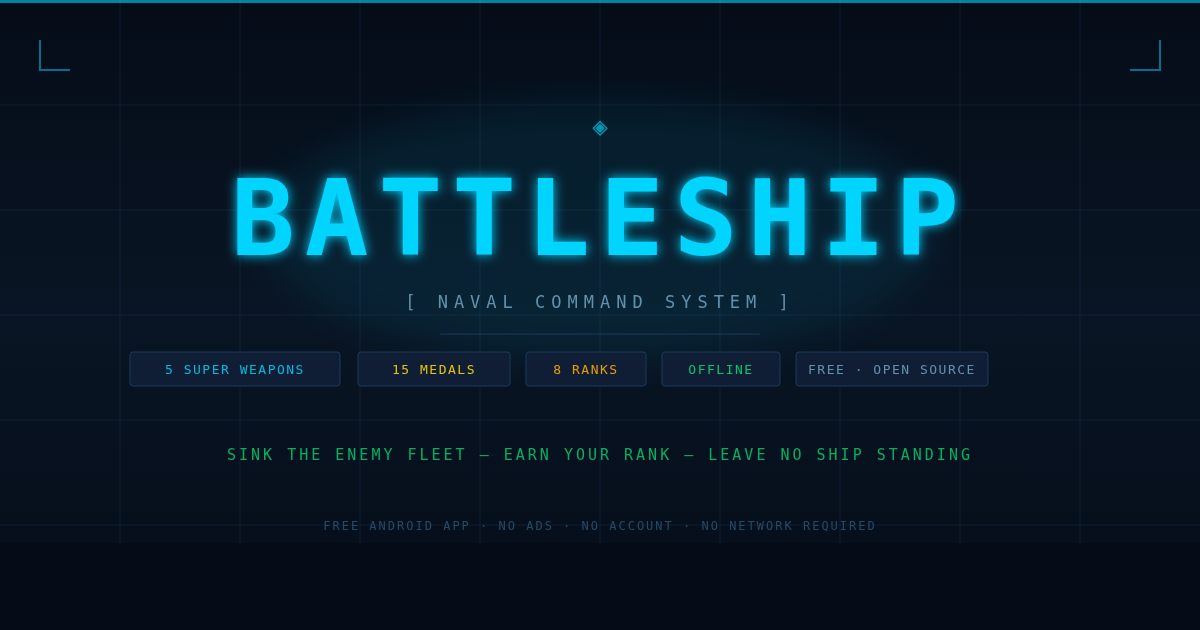
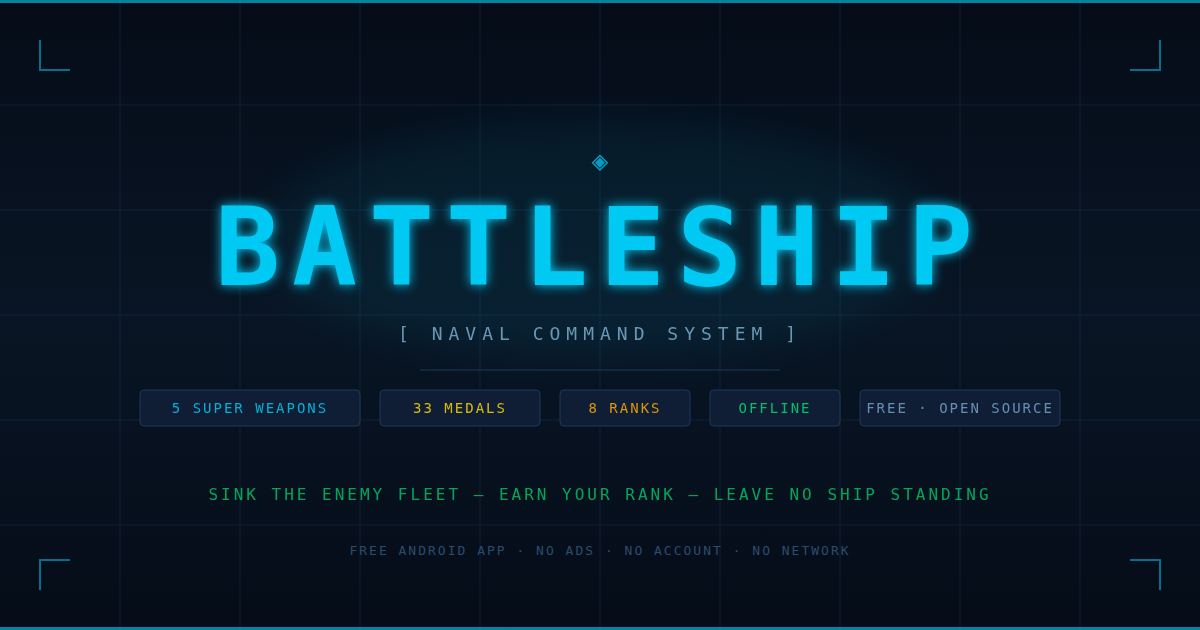
chore: release 1.0.13 so F-Droid shows the finished description (#59)
* chore: release 1.0.13 so F-Droid shows the finished description

F-Droid reads the store text from the tagged commit, so the corrections in #58
only reach the listing once a release carries them.

Claude-Session: https://claude.ai/code/session_01WmQqqeymFbDafWkmJCSYuR

* docs: correct the website claims an audit found unsupported by the source

A full audit of every user-facing claim against app/src turned up defects the
tester's sample had not reached. The store metadata and both privacy documents
came back clean; everything here is the website and README.

- og.png still read "15 MEDALS", so every link preview of either page carried
  the retracted number. Re-rendered from og-source.svg.
- Precision Strike was drawn as a 5x5 X of 9 cells. Its offsets are a 3x3 X of
  5 cells, as SuperWeaponTest asserts. Both diagrams redrawn.
- "impossible to evade if a ship hides in the corner" was backwards: out-of-
  bounds cells are discarded, so a corner shot lands on 2 cells.
- "Medals also award bonus score points" — ScoreCalculator sums eight terms and
  none is a badge term; badges are derived from the finished score. Removed.
- Medals are awarded when a battle ends, not mid-fight: computeScoreResult runs
  only from the two GAME_OVER branches.
- "Two dedicated screens" — there are three; BADGES was unmentioned.
- The menu button reads CAREER STATS, not VIEW STATS.
- Flawless Victory needs the ships afloat, not undamaged; now matches the app's
  own hint string.
[…]

diff --git a/website/fa/index.html b/website/fa/index.html
@@ -92,7 +92,7 @@
       <div class="briefing-text">
         <p>ناوگان دشمن جایی در آن آبها پنهان شده است. سونار شما حضور آنها را تشخیص داده، اما موقعیت دقیقشان هنوز ناشناخته است. جایی در آن شبکه ۱۰×۱۰ از دریای خاکستری و سکوت، پنج کشتی منتظرند — یک ناو هواپیمابر، یک رزمناو، یک کروزر، یک زیردریایی، یک ناوشکن. دستورات شما ساده است: پیداشان کنید. غرقشان کنید. همه را.</p>
         <p>ناوگان خود را با دقت مستقر کنید — جایابی خود نوعی استراتژی است. سپس اولین شلیک خود را به درون مه انجام دهید. یک پینگ. یک پاشش. یک اصابت. هر کشتی دشمن که غرق میکنید یک سلاح فوقالعاده به زرادخانه شما اضافه میکند — یک بمباران فرشی، یک رگبار، یک پیمایش سونار، یک پخش اژدر، یک حمله دقیق. آنها را با خرد استفاده کنید. حریف هوش مصنوعی فکر میکند. شکار میکند. سازگار میشود.</p>
-        <p>هر نبرد پرونده شما را مینویسد. درصد اصابتها، رشته پیروزیها، مدالهای کسبشده در میان نبرد — همه در پرونده کارنامه شما انباشته میشوند. از ستوانیار به فرمانده ناوگان ارتقا یابید. ثابت کنید فرماندهی شما بینقص است. اقیانوس تردید را نمیبخشد. دشمن هم نمیبخشد.</p>
+        <p>هر نبرد پرونده شما را مینویسد. درصد اصابتها، رشته پیروزیها، مدالهایی که در پایان هر نبرد اعطا میشوند — همه در پرونده کارنامه شما انباشته میشوند. از ستوانیار به فرمانده ناوگان ارتقا یابید. ثابت کنید فرماندهی شما بینقص است. اقیانوس تردید را نمیبخشد. دشمن هم نمیبخشد.</p>
       </div>
     </section>
 
@@ -235,7 +235,7 @@
         <div class="weapon-card">
           <span class="weapon-icon">🐠</span>
           <div class="weapon-name">پخش اژدر</div>
-          <div class="weapon-desc">رگبار عمودی ۵ خانهای که یک ستون را میکوبد — حمله عمقی از اعماق دریا.</div>
+          <div class="weapon-desc">رگبار عمودی ۵ خانهای حول خانهٔ هدف، که در لبهٔ صفحه کوتاه میشود — حمله عمقی از اعماق دریا.</div>
           <div class="weapon-pattern">
             <div class="weapon-pattern-row"><div class="wp-cell hit"></div></div>
             <div class="weapon-pattern-row"><div class="wp-cell hit"></div></div>
@@ -249,22 +249,16 @@
         <div class="weapon-card">
           <span class="weapon-icon">🎯</span>
           <div class="weapon-name">حمله دقیق</div>
-          <div class="weapon-desc">ضربه جراحی ۵ خانهای به شکل X — هدفگیری ضربدری قطری که اگر کشتی در گوشه پنهان شده باشد، فرار غیرممکن است.</div>
+          <div class="weapon-desc">ضربه جراحی ۵ خانهای به شکل X — هدفگیری ضربدری قطری حول خانهٔ هدف، که در لبهٔ صفحه کوتاه میشود — در گوشه فقط ۲ خانه.</div>
           <div class="weapon-pattern">
             <div class="weapon-pattern-row">
-              <div class="wp-cell hit"></div><div class="wp-cell"></div><div class="wp-cell"></div><div class="wp-cell"></div><div class="wp-cell hit"></div>
+              <div class="wp-cell hit"></div><div class="wp-cell"></div><div class="wp-cell hit"></div>
             </div>
             <div class="weapon-pattern-row">
-              <div class="wp-cell"></div><div class="wp-cell hit"></div><div class="wp-cell"></div><div class="wp-cell hit"></div><div class="wp-cell"></div>
+              <div class="wp-cell"></div><div class="wp-cell hit"></div><div class="wp-cell"></div>
             </div>
             <div class="weapon-pattern-row">
-              <div class="wp-cell"></div><div class="wp-cell"></div><div class="wp-cell hit"></div><div class="wp-cell"></div><div class="wp-cell"></div>
-            </div>
-            <div class="weapon-pattern-row">
-              <div class="wp-cell"></div><div class="wp-cell hit"></div><div class="wp-cell"></div><div class="wp-cell hit"></div><div class="wp-cell"></div>
-            </div>
-            <div class="weapon-pattern-row">
-              <div class="wp-cell hit"></div><div class="wp-cell"></div><div class="wp-cell"></div><div class="wp-cell"></div><div class="wp-cell hit"></div>
+              <div class="wp-cell hit"></div><div class="wp-cell"></div><div class="wp-cell hit"></div>
             </div>
           </div>
           <div class="weapon-unlock">با غرق کردن ناوشکن دشمن باز میشود</div>
@@ -277,7 +271,7 @@
     <section>
       <p class="section-label">◆ محرمانه — افتخارات و نشانها</p>
       <h2>مدالها و افتخارات</h2>
-      <p style="color:var(--text-secondary);font-size:0.8rem;margin-bottom:1.5rem;">۳۳ مدال که در حین بازی کسب میشوند در پرونده کارنامه شما انباشته میشوند. مدالها همچنین امتیاز پاداش میدهند.</p>
+      <p style="color:var(--text-secondary);font-size:0.8rem;margin-bottom:1.5rem;">۳۳ مدال، که در پایان هر نبرد اعطا میشوند، در پرونده کارنامه شما انباشته میشوند.</p>
 
       <div class="medals-tier">
         <div class="tier-label tier-legendary">⭐ افسانهای</div>
@@ -306,7 +300,7 @@
           <div class="medal-card medal-epic">
             <span class="medal-icon">👑</span>
             <div class="medal-name">پیروزی بینقص</div>
-            <div class="medal-condition">با تمام ۵ کشتی خود کاملاً سالم بازی را ببرید.</div>
+            <div class="medal-condition">با هر ۵ کشتی خود هنوز شناور، بازی را ببرید.</div>
           </div>
           <div class="medal-card medal-epic">
             <span class="medal-icon">🔥🔥</span>
@@ -331,7 +325,7 @@
           </div>
           <div class="medal-card medal-rare">
             <span class="medal-icon">🔥</span>
-            <div class="medal-name">رشته پیروزی</div>
+            <div class="medal-name">زنجیره اصابت</div>
             <div class="medal-condition">۵ اصابت متوالی بدون خطا.</div>
           </div>
           <div class="medal-card medal-rare">
@@ -507,7 +501,7 @@
     <section>
       <p class="section-label">◆ مرکز فرماندهی — آمار کارنامه</p>
       <h2>مرکز فرماندهی کارنامه</h2>
-      <p style="color:var(--text-secondary);font-size:0.8rem;margin-bottom:1.2rem;">دو صفحه اختصاصی از منوی اصلی: <strong style="color:var(--cyan)">مشاهده آمار</strong> رتبه و اعداد کارنامه را نشان میدهد؛ <strong style="color:var(--cyan)">دفتر مدالها</strong> تمام ۳۳ مدال را با طراحی Canvas ششضلعی و تعداد دفعات کسب هر مدال نمایش میدهد. سوابق پس از بستن اپ نیز باقی میمانند.</p>
+      <p style="color:var(--text-secondary);font-size:0.8rem;margin-bottom:1.2rem;">سه صفحه اختصاصی از منوی اصلی: <strong style="color:var(--cyan)">CAREER STATS</strong> رتبه و اعداد کارنامه را نشان میدهد؛ <strong style="color:var(--cyan)">دفتر مدالها</strong> تمام ۳۳ مدال را با طراحی Canvas ششضلعی و تعداد دفعات کسب هر مدال نمایش میدهد؛ <strong style="color:var(--cyan)">BADGES</strong> همان ۳۳ نشان را همراه شرط کسب هرکدام فهرست میکند. سوابق پس از بستن اپ نیز باقی میمانند.</p>
       <div class="career-panel">
         <div class="career-header">
           <span class="career-rank-badge">⭐</span>
@@ -620,7 +614,7 @@ Navigation Compose  ·  Coroutines  ·  Min SDK 24 (Android 7.0)
 Clean Architecture + MVVM — single GameViewModel across all screens
 
 domain/          ← Pure Kotlin, zero Android deps, fully testable
-  model/         ← Ship, Board, ShipType, CellState, GamePhase, GameState
+  model/         ← Ship, Board, ShipType, CellState, GamePhase, SuperWeapon
   ai/            ← BattleshipAI (stateless hunt/target algorithm)
 
 presentation/    ← Android / Jetpack Compose

diff --git a/website/index.html b/website/index.html
@@ -81,7 +81,7 @@
       <div class="briefing-text">
         <p>The enemy fleet lurks somewhere in those waters. Your sonar has detected their presence, but their exact positions remain unknown. Somewhere in that 10×10 grid of grey sea and silence, five ships wait — a Carrier, a Battleship, a Cruiser, a Submarine, a Destroyer. Your orders are simple: find them. Sink them. All of them.</p>
         <p>Deploy your own fleet with care — placement is strategy. Then fire your first shot into the fog. A ping. A splash. A hit. Each sunken enemy ship delivers a super weapon into your arsenal — a Carpet Bomb, a Barrage, a Sonar Sweep, a Torpedo Spread, a Precision Strike. Use them wisely. The AI opponent thinks. It hunts. It adapts.</p>
-        <p>Every battle writes your record. Hit percentages, win streaks, medals earned mid-fight — they all accumulate in your career file. Rise from Cadet to Fleet Admiral. Prove your command is flawless. The ocean doesn't forgive hesitation. Neither does the enemy.</p>
+        <p>Every battle writes your record. Hit percentages, win streaks, medals awarded at the end of each battle — they all accumulate in your career file. Rise from Cadet to Fleet Admiral. Prove your command is flawless. The ocean doesn't forgive hesitation. Neither does the enemy.</p>
       </div>
     </section>
 
@@ -224,7 +224,7 @@
         <div class="weapon-card">
           <span class="weapon-icon">🐠</span>
           <div class="weapon-name">TORPEDO SPREAD</div>
-          <div class="weapon-desc">5-cell vertical salvo punching down a column — depth attack delivered from the deep.</div>
+          <div class="weapon-desc">5-cell vertical salvo centred on the target cell, clipped at the board edge — depth attack delivered from the deep.</div>
           <div class="weapon-pattern">
             <div class="weapon-pattern-row"><div class="wp-cell hit"></div></div>
             <div class="weapon-pattern-row"><div class="wp-cell hit"></div></div>
@@ -238,22 +238,16 @@
         <div class="weapon-card">
           <span class="weapon-icon">🎯</span>
           <div class="weapon-name">PRECISION STRIKE</div>
-          <div class="weapon-desc">5-cell X-pattern surgical strike — diagonal cross targeting, impossible to evade if a ship hides in the corner.</div>
+          <div class="weapon-desc">5-cell X-pattern surgical strike — diagonal cross centred on the target, clipped at the board edge — in a corner it lands on just 2 cells.</div>
           <div class="weapon-pattern">
             <div class="weapon-pattern-row">
-              <div class="wp-cell hit"></div><div class="wp-cell"></div><div class="wp-cell"></div><div class="wp-cell"></div><div class="wp-cell hit"></div>
+              <div class="wp-cell hit"></div><div class="wp-cell"></div><div class="wp-cell hit"></div>
             </div>
             <div class="weapon-pattern-row">
-              <div class="wp-cell"></div><div class="wp-cell hit"></div><div class="wp-cell"></div><div class="wp-cell hit"></div><div class="wp-cell"></div>
+              <div class="wp-cell"></div><div class="wp-cell hit"></div><div class="wp-cell"></div>
             </div>
             <div class="weapon-pattern-row">
-              <div class="wp-cell"></div><div class="wp-cell"></div><div class="wp-cell hit"></div><div class="wp-cell"></div><div class="wp-cell"></div>
-            </div>
-            <div class="weapon-pattern-row">
-              <div class="wp-cell"></div><div class="wp-cell hit"></div><div class="wp-cell"></div><div class="wp-cell hit"></div><div class="wp-cell"></div>
-            </div>
-            <div class="weapon-pattern-row">
-              <div class="wp-cell hit"></div><div class="wp-cell"></div><div class="wp-cell"></div><div class="wp-cell"></div><div class="wp-cell hit"></div>
+              <div class="wp-cell hit"></div><div class="wp-cell"></div><div class="wp-cell hit"></div>
             </div>
           </div>
           <div class="weapon-unlock">Unlocked by sinking the enemy DESTROYER</div>
@@ -266,7 +260,7 @@
     <section>
       <p class="section-label">◆ CLASSIFIED — HONOURS &amp; COMMENDATIONS</p>
       <h2>MEDALS &amp; HONOURS</h2>
-      <p style="color:var(--text-secondary);font-size:0.8rem;margin-bottom:1.5rem;">33 medals earned mid-game accumulate in your career file. Medals also award bonus score points.</p>
+      <p style="color:var(--text-secondary);font-size:0.8rem;margin-bottom:1.5rem;">33 medals, awarded when a battle ends, accumulate in your career file.</p>
 
       <div class="medals-tier">
         <div class="tier-label tier-legendary">⭐ LEGENDARY</div>
@@ -295,7 +289,7 @@
           <div class="medal-card medal-epic">
             <span class="medal-icon">👑</span>
             <div class="medal-name">FLAWLESS VICTORY</div>
-            <div class="medal-condition">Win with all 5 of your ships completely intact.</div>
+            <div class="medal-condition">Win with all 5 of your ships still afloat.</div>
           </div>
           <div class="medal-card medal-epic">
             <span class="medal-icon">🔥🔥</span>
@@ -496,7 +490,7 @@
     <section>
       <p class="section-label">◆ COMMAND CENTER — CAREER STATISTICS</p>
       <h2>CAREER COMMAND</h2>
-      <p style="color:var(--text-secondary);font-size:0.8rem;margin-bottom:1.2rem;">Two dedicated screens accessible from the main menu: <strong style="color:var(--cyan)">VIEW STATS</strong> shows your rank and career numbers; <strong style="color:var(--cyan)">MEDAL REGISTRY</strong> shows all 33 medals as hexagonal Canvas art with per-badge earn counts. Records persist across app restarts.</p>
+      <p style="color:var(--text-secondary);font-size:0.8rem;margin-bottom:1.2rem;">Three dedicated screens accessible from the main menu: <strong style="color:var(--cyan)">CAREER STATS</strong> shows your rank and career numbers; <strong style="color:var(--cyan)">MEDAL REGISTRY</strong> shows all 33 medals as hexagonal Canvas art with per-badge earn counts; <strong style="color:var(--cyan)">BADGES</strong> lists the same 33 awards with the condition for each. Records persist across app restarts.</p>
       <div class="career-panel">
         <div class="career-header">
           <span class="career-rank-badge">⭐</span>
@@ -609,7 +603,7 @@ Navigation Compose  ·  Coroutines  ·  Min SDK 24 (Android 7.0)
 Clean Architecture + MVVM — single GameViewModel across all screens
 
 domain/          ← Pure Kotlin, zero Android deps, fully testable
-  model/         ← Ship, Board, ShipType, CellState, GamePhase, GameState
+  model/         ← Ship, Board, ShipType, CellState, GamePhase, SuperWeapon
   ai/            ← BattleshipAI (stateless hunt/target algorithm)
 
 presentation/    ← Android / Jetpack Compose

diff --git a/README.md b/README.md
@@ -32,7 +32,7 @@ Unlock special attack abilities by sinking enemy ships (5 total):
 ### Medals & Ranking System
 
 - **33 medals** across 4 rarities (Common, Rare, Epic, Legendary)
-  - Examples: Perfect Gunner (win with 0 misses), Flawless Victory (all 5 ships intact), Dead-Eye (80%+ accuracy)
+  - Examples: Perfect Gunner (win with 0 misses), Flawless Victory (all 5 ships still afloat), Dead-Eye (80%+ accuracy)
 - **8 career ranks**: Cadet → Ensign → Lieutenant → Captain → Commodore → Vice Admiral → Admiral → Fleet Admiral
 - **Career stats screen** — track accumulated medals, best rank, and win streaks across games and app restarts
 
@@ -102,7 +102,7 @@ Clean Architecture with two layers. The domain layer has zero Android dependenci
 app/src/main/java/com/cocode/battleship/
 │
 ├── domain/                   ← Pure Kotlin — fully testable
-│   ├── model/                ← Ship, Board, GameState, ShipType, CellState
+│   ├── model/                ← Ship, Board, ShipType, CellState, GamePhase, SuperWeapon
 │   └── ai/                   ← BattleshipAI (hunt/target algorithm)
 │
 ├── presentation/             ← Android + Jetpack Compose
